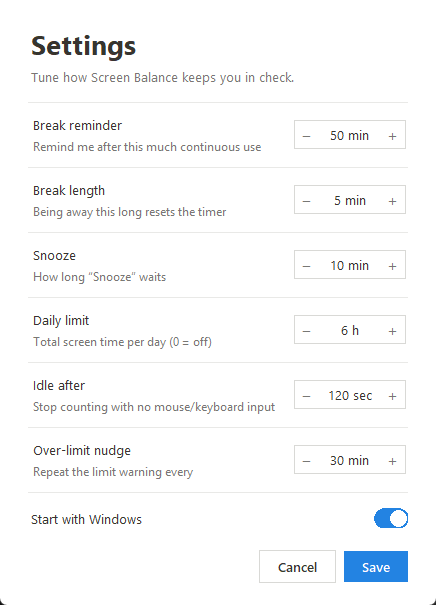
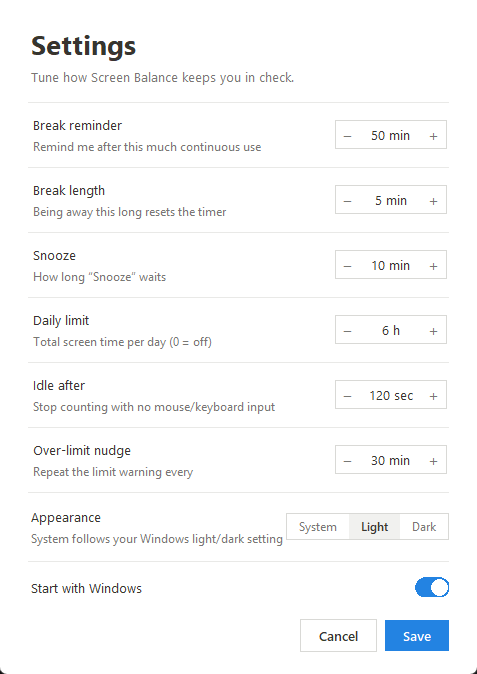
Add dark mode (System / Light / Dark)
- Notion dark palette for the dashboard, popups, break screen, settings
  window and title bars; tags and chart colors have dark variants
- New Appearance setting; "System" (default) follows the Windows
  light/dark app mode and switches live when it changes
- README images switch with the viewer's GitHub theme

diff --git a/screen_balance.py b/screen_balance.py
@@ -46,7 +46,9 @@ DEFAULT_CONFIG = {
     "daily_limit_hours": 6.0,
     "idle_threshold_sec": 120,  # no input for this long = not counting time
     "over_limit_repeat_min": 30,
+    "theme": "system",          # "system" (follow Windows), "light" or "dark"
 }
+THEMES = ("system", "light", "dark")
 
 TICK_MS = 1000  # 1 s so the "Break in" countdown ticks smoothly
 SAVE_EVERY_SEC = 60
@@ -117,13 +119,24 @@ def log_error(msg: str) -> None:
         pass
 
 
+def windows_uses_dark_mode() -> bool:
+    """True when Windows' app mode is set to Dark (Settings > Personalization > Colors)."""
+    import winreg
+    try:
+        with winreg.OpenKey(winreg.HKEY_CURRENT_USER,
+                            r"Software\Microsoft\Windows\CurrentVersion\Themes\Personalize") as k:
+            return winreg.QueryValueEx(k, "AppsUseLightTheme")[0] == 0
+    except OSError:
+        return False
+
+
 def style_titlebar(win):
-    """Windows 11 light title bar matching the app's white pages."""
+    """Windows 11 title bar matching the current page color (light or dark)."""
     try:
         win.update_idletasks()
         hwnd = user32.GetParent(win.winfo_id())
-        off = ctypes.c_int(0)
-        ctypes.windll.dwmapi.DwmSetWindowAttribute(hwnd, 20, ctypes.byref(off), 4)
+        dark = ctypes.c_int(1 if THEME["dark"] else 0)
+        ctypes.windll.dwmapi.DwmSetWindowAttribute(hwnd, 20, ctypes.byref(dark), 4)
         r, g, b = THEME["bg"]
         color = ctypes.c_int(r | (g << 8) | (b << 16))
         ctypes.windll.dwmapi.DwmSetWindowAttribute(hwnd, 35, ctypes.byref(color), 4)
@@ -213,6 +226,8 @@ def clean_config(raw: dict) -> dict:
             continue
         v = max(lo, min(hi, v))
         cfg[key] = v if is_float else int(v)
+    if raw.get("theme") in THEMES:
+        cfg["theme"] = raw["theme"]
     return cfg
 
 
@@ -300,6 +315,8 @@ class ScreenBalance:
         self._stats_win = None
         self._settings_win = None
         self._tray_key = None
+        self._theme_checked = 0.0
+        self.apply_theme()
 
         self.cmd_q = queue.Queue()
 
@@ -309,6 +326,25 @@ class ScreenBalance:
         self.scale = self.root.winfo_fpixels("1i") / 96.0
 
         self.icon = pystray.Icon(APP_NAME, design.render_tray(0), APP_NAME, self._build_menu())
+
+    # ---------------- theme ----------------
+    def _wants_dark(self) -> bool:
+        mode = self.config.get("theme", "system")
+        return windows_uses_dark_mode() if mode == "system" else mode == "dark"
+
+    def apply_theme(self) -> bool:
+        """Switch the palette if needed. Returns True when it changed."""
+        dark = self._wants_dark()
+        if THEME.get("dark") == dark:
+            return False
+        design.set_theme(dark)
+        win = getattr(self, "_stats_win", None)
+        if win is not None and win.winfo_exists():
+            win.configure(bg=hexc(THEME["bg"]))
+            self._stats_label.configure(bg=hexc(THEME["bg"]))
+            style_titlebar(win)
+            self._refresh_stats()
+        return True
 
     # ---------------- data ----------------
     def _prune_usage(self):
@@ -427,6 +463,11 @@ class ScreenBalance:
         elapsed = gap if gap <= 30 else 0  # a big gap means sleep/hibernate, not screen time
         self._last_tick, self._last_wall = now, wall
 
+        # follow Windows switching between light and dark (checked every few seconds)
+        if self.config.get("theme") == "system" and now - self._theme_checked >= 3:
+            self._theme_checked = now
+            self.apply_theme()
+
         if today_key() != self._last_day:   # midnight: drop old history, keep running
             self._last_day = today_key()
             self._prune_usage()
@@ -531,7 +572,7 @@ class ScreenBalance:
         self._popup = win
         win.overrideredirect(True)
         win.attributes("-topmost", True)
-        key = hexc(design.POPUP_KEY)
+        key = hexc(design.popup_key())
         win.configure(bg=key)
         win.attributes("-transparentcolor", key)
         win.attributes("-alpha", 0.0)
@@ -897,6 +938,33 @@ class ScreenBalance:
                 else:
                     b.pack(side="left")
 
+        # appearance: System / Light / Dark
+        theme = {"mode": self.config.get("theme", "system")}
+        look_row = tk.Frame(outer, bg=bg, pady=12)
+        look_row.pack(fill="x")
+        look_text = tk.Frame(look_row, bg=bg)
+        look_text.pack(side="left")
+        tk.Label(look_text, text="Appearance", bg=bg, fg=hexc(T["text"]), font=("Segoe UI", 10)).pack(anchor="w")
+        tk.Label(look_text, text="System follows your Windows light/dark setting", bg=bg, fg=hexc(T["muted"]),
+                 font=("Segoe UI", 9)).pack(anchor="w")
+        seg = tk.Frame(look_row, bg=bg, highlightthickness=1, highlightbackground=hexc(T["border_hi"]))
+        seg.pack(side="right")
+        seg_btns = {}
+
+        def draw_seg():
+            for mode, lbl in seg_btns.items():
+                on = mode == theme["mode"]
+                lbl.config(bg=hexc(T["card_hi"]) if on else bg, fg=hexc(T["text"] if on else T["muted"]),
+                           font=("Segoe UI Semibold" if on else "Segoe UI", 9))
+
+        for mode in THEMES:
+            lbl = tk.Label(seg, text=mode.capitalize(), bg=bg, cursor="hand2", padx=10, pady=3)
+            lbl.pack(side="left")
+            lbl.bind("<Button-1>", lambda e, m=mode: (theme.update(mode=m), draw_seg()))
+            seg_btns[mode] = lbl
+        draw_seg()
+        tk.Frame(outer, bg=hexc(T["border"]), height=1).pack(fill="x")
+
         # autostart toggle
         auto_row = tk.Frame(outer, bg=bg, pady=14)
         auto_row.pack(fill="x")
@@ -927,7 +995,9 @@ class ScreenBalance:
             for key, *_ in fields:
                 v = values[key]
                 self.config[key] = v if key == "daily_limit_hours" else int(v)
+            self.config["theme"] = theme["mode"]
             save_json(CONFIG_PATH, self.config)
+            self.apply_theme()
             if self.config["break_interval_min"] != old_interval:
                 # new interval applies to the current session; if already past it, remind in a minute
                 self.next_break_at = max(self.config["break_interval_min"] * 60, self.session_sec + 60)

diff --git a/design.py b/design.py
@@ -11,8 +11,9 @@ import os
 
 from PIL import Image, ImageDraw, ImageFont
 
-# Notion-like palette
-THEME = {
+# Notion-like palettes
+LIGHT = {
+    "dark": False,
     "bg": (255, 255, 255),        # page
     "card": (247, 247, 245),      # sidebar / soft panel
     "card_hi": (241, 241, 239),   # callout, hover, stepper
@@ -27,10 +28,35 @@ THEME = {
     "good": (68, 131, 97),
     "warn": (217, 115, 13),
     "danger": (212, 76, 71),
+    "bar_other": (215, 214, 211),  # past days in charts
+    "bar_over": (235, 160, 156),   # past days over the limit
+    "bar_hour": (182, 206, 232),   # hourly bars
+    "key": (250, 251, 252),        # transparent color key for popups (never drawn)
+}
+DARK = {
+    "dark": True,
+    "bg": (25, 25, 25),
+    "card": (32, 32, 32),
+    "card_hi": (40, 40, 40),
+    "track": (47, 47, 47),
+    "border": (47, 47, 47),
+    "border_hi": (64, 64, 64),
+    "text": (213, 213, 211),
+    "muted": (155, 155, 152),
+    "dim": (110, 110, 108),
+    "a1": (35, 131, 226),
+    "a1_hover": (56, 146, 235),
+    "good": (82, 158, 114),
+    "warn": (219, 132, 62),
+    "danger": (223, 84, 82),
+    "bar_other": (72, 72, 72),
+    "bar_over": (122, 62, 58),
+    "bar_hour": (42, 82, 128),
+    "key": (24, 26, 28),
 }
 
 # (background, text) pairs, like Notion's select tags
-TAGS = {
+LIGHT_TAGS = {
     "gray": ((241, 241, 239), (120, 119, 116)),
     "blue": ((231, 243, 248), (51, 126, 169)),
     "green": ((237, 243, 236), (68, 131, 97)),
@@ -40,8 +66,32 @@ TAGS = {
     "purple": ((246, 243, 249), (144, 101, 176)),
     "pink": ((250, 241, 245), (193, 76, 138)),
 }
+DARK_TAGS = {
+    "gray": ((55, 55, 55), (175, 175, 172)),
+    "blue": ((31, 57, 88), (92, 164, 214)),
+    "green": ((36, 66, 49), (96, 172, 128)),
+    "orange": ((92, 55, 27), (222, 144, 86)),
+    "yellow": ((86, 66, 30), (214, 168, 84)),
+    "red": ((92, 42, 40), (232, 110, 106)),
+    "purple": ((60, 42, 82), (168, 128, 222)),
+    "pink": ((82, 38, 62), (226, 100, 168)),
+}
 APP_TAGS = ["blue", "purple", "green", "orange", "pink", "yellow"]
-POPUP_KEY = (250, 251, 252)  # transparent color key for borderless popups (never used in drawings)
+
+# the live palette; set_theme() swaps its contents in place so every module sees the change
+THEME = dict(LIGHT)
+TAGS = dict(LIGHT_TAGS)
+
+
+def set_theme(dark: bool) -> None:
+    THEME.clear()
+    THEME.update(DARK if dark else LIGHT)
+    TAGS.clear()
+    TAGS.update(DARK_TAGS if dark else LIGHT_TAGS)
+
+
+def popup_key():
+    return THEME["key"]
 
 _FONT_FILES = {
     "regular": ["segoeui.ttf"],
@@ -361,9 +411,9 @@ def _overview(p, data, hover, hits):
         if v > 0:
             h = max(3, (base - top_y) * v / peak)
             if limit and v > limit:
-                col = T["danger"] if d["today"] else (235, 160, 156)
+                col = T["danger"] if d["today"] else T["bar_over"]
             else:
-                col = T["a1"] if d["today"] else (215, 214, 211)
+                col = T["a1"] if d["today"] else T["bar_other"]
             p.rrect((cx - 12, base - h, cx + 12, base - 1), 3, fill=col)
         p.text((cx, base + 15), d["label"], 12, T["text"] if d["today"] else T["muted"],
                "semibold" if d["today"] else "regular", "mm")
@@ -407,7 +457,7 @@ def _analytics(p, data):
         cx = L + colw * (h + 0.5)
         if v > 0:
             bh = max(2, (base - top_y) * v / peak)
-            col = T["a1"] if h == cur else (182, 206, 232)
+            col = T["a1"] if h == cur else T["bar_hour"]
             p.rrect((cx - colw * 0.32, base - bh, cx + colw * 0.32, base - 1), 2, fill=col)
         if h % 6 == 0:
             p.text((cx, base + 14), ("12a", "6a", "12p", "6p")[h // 6], 11, T["muted"], anchor="mm")
@@ -462,7 +512,7 @@ _POPUP_ICONS = {"break": "☕", "warn": "⚠", "limit": "⏰"}
 def render_popup(kind, title, message, buttons, hover, out_scale):
     """buttons: list of (id, label, primary). Returns (image, hits) with hits in output pixels."""
     T = THEME
-    p = Painter(POPUP_W, 400, out_scale * 2, POPUP_KEY)
+    p = Painter(POPUP_W, 400, out_scale * 2, T["key"])
     lines = p.wrap(message, 12.5, POPUP_W - 56 - 22)
     msg_top = 56
     btn_y0 = msg_top + len(lines) * 19 + 12
@@ -494,7 +544,7 @@ def render_popup(kind, title, message, buttons, hover, out_scale):
 
     img = p.img.crop((0, 0, round(POPUP_W * p.S), round(H * p.S)))
     out = img.resize((round(POPUP_W * out_scale), round(H * out_scale)), Image.LANCZOS)
-    flat = Image.new("RGB", out.size, POPUP_KEY)
+    flat = Image.new("RGB", out.size, T["key"])
     flat.paste(out, (0, 0), out)
     hits = [(bid, tuple(v * out_scale for v in box)) for bid, box in hits]
     return flat, hits

diff --git a/tools/make_screenshots.py b/tools/make_screenshots.py
@@ -39,19 +39,22 @@ DEMO = dict(
 def save_popup(name, img):
     # popups are flattened onto a color key for transparency; turn that into real alpha
     rgb = img.convert("RGB")
-    diff = ImageChops.difference(rgb, Image.new("RGB", rgb.size, design.POPUP_KEY))
+    diff = ImageChops.difference(rgb, Image.new("RGB", rgb.size, design.popup_key()))
     alpha = diff.convert("L").point(lambda v: 255 if v else 0)
     rgba = rgb.convert("RGBA")
     rgba.putalpha(alpha)
     rgba.save(os.path.join(OUT, name))
 
 
-def settings_shot():
+def settings_shot(theme, name):
+    import json
     import screen_balance as sb
     tmp = tempfile.mkdtemp()
     sb.DATA_DIR = tmp
     sb.CONFIG_PATH = os.path.join(tmp, "config.json")
     sb.USAGE_PATH = os.path.join(tmp, "usage.json")
+    with open(sb.CONFIG_PATH, "w") as f:
+        json.dump({"theme": theme}, f)
     app = sb.ScreenBalance()
     sb.autostart_enabled = lambda: True  # show the toggle switched on
     app._cmd_settings()
@@ -61,12 +64,13 @@ def settings_shot():
     win.update()
     x, y = win.winfo_rootx(), win.winfo_rooty()
     ImageGrab.grab((x, y, x + win.winfo_width(), y + win.winfo_height()), all_screens=True) \
-        .save(os.path.join(OUT, "settings.png"))
+        .save(os.path.join(OUT, name))
     app.root.destroy()
 
 
 def main():
     os.makedirs(OUT, exist_ok=True)
+    design.set_theme(False)
     design.render_dashboard(DEMO, SCALE, tab="overview")[0].save(os.path.join(OUT, "dashboard.png"))
     design.render_dashboard(DEMO, SCALE, tab="analytics")[0].save(os.path.join(OUT, "analytics.png"))
     img, _ = design.render_break(0, 300, "Your eyes, back and mind will thank you.", True, None, SCALE,
@@ -92,7 +96,16 @@ def main():
         strip.paste(ic, (i * 88, 0), ic)
     strip.save(os.path.join(OUT, "tray-icons.png"))
 
-    settings_shot()
+    # dark versions (the README shows them to people using GitHub's dark theme)
+    design.set_theme(True)
+    design.render_dashboard(DEMO, SCALE, tab="overview")[0].save(os.path.join(OUT, "dashboard-dark.png"))
+    design.render_dashboard(DEMO, SCALE, tab="analytics")[0].save(os.path.join(OUT, "analytics-dark.png"))
+    img, _ = design.render_break(187, 300, design.BREAK_TIPS[1], False, None, SCALE)
+    img.save(os.path.join(OUT, "break-timer-dark.png"))
+    design.set_theme(False)
+
+    settings_shot("light", "settings.png")
+    settings_shot("dark", "settings-dark.png")
     print("Saved images to", OUT)
 
 

diff --git a/README.md b/README.md
@@ -11,7 +11,10 @@ It reminds you to take breaks, keeps an eye on your daily screen time, and shows
 ![License: MIT](https://img.shields.io/badge/License-MIT-37352F)
 ![100% offline](https://img.shields.io/badge/Data-100%25%20offline-448361)
 
-<img src="docs/dashboard.png" alt="Screen Balance dashboard in a Notion-like style: status, break countdown, breaks today, today's screen time, top apps and the last 7 days" width="780">
+<picture>
+  <source media="(prefers-color-scheme: dark)" srcset="docs/dashboard-dark.png">
+  <img src="docs/dashboard.png" alt="Screen Balance dashboard in a Notion-like style: status, break countdown, breaks today, today's screen time, top apps and the last 7 days" width="780">
+</picture>
 
 </div>
 
@@ -38,7 +41,10 @@ Need to get back urgently? **End break early** is always there. Ending early cou
 **Trigger a break whenever you want:** click **☕ Take a break now** on the dashboard, or choose it from the tray menu.
 
 <p>
-<img src="docs/break-timer.png" alt="Full-screen break timer with a countdown and a progress bar" width="380">
+<picture>
+  <source media="(prefers-color-scheme: dark)" srcset="docs/break-timer-dark.png">
+  <img src="docs/break-timer.png" alt="Full-screen break timer with a countdown and a progress bar" width="380">
+</picture>
 <img src="docs/break-done.png" alt="Break complete screen: your 3rd break today" width="380">
 </p>
 
@@ -68,7 +74,10 @@ Switch to the **Analytics** tab for the detail:
 - **Activity by hour**: when in the day you use your PC, with your busiest hour
 - **Last 7 days table**: screen time, number of breaks and break time for each day
 
-<img src="docs/analytics.png" alt="Analytics tab: stat cards, activity by hour, and a 7-day table with breaks and break time" width="780">
+<picture>
+  <source media="(prefers-color-scheme: dark)" srcset="docs/analytics-dark.png">
+  <img src="docs/analytics.png" alt="Analytics tab: stat cards, activity by hour, and a 7-day table with breaks and break time" width="780">
+</picture>
 
 Breaks are counted whether you finish the break timer, step away for 5+ minutes, or put the PC to sleep.
 
@@ -79,13 +88,19 @@ The icon is a small progress ring that fills with your day: blue while you're on
 
 <sub>On track · close to the limit · over the limit · reminders paused</sub>
 
+### Light and dark mode
+Choose **System**, **Light** or **Dark** under *Appearance* in Settings. **System** (the default) follows your Windows light/dark setting and switches automatically when you change it. The dashboard, popups, break screen, settings and even the window title bars follow along. The images in this README match your GitHub theme too.
+
 ### Only *real* use counts
 Time only counts while you're actually using the PC. Counting stops after 2 minutes without mouse or keyboard input, while the screen is locked, and while the PC sleeps.
 
 ### Settings
 Everything is adjustable, including whether it starts with Windows.
 
-<img src="docs/settings.png" alt="Settings window" width="400">
+<picture>
+  <source media="(prefers-color-scheme: dark)" srcset="docs/settings-dark.png">
+  <img src="docs/settings.png" alt="Settings window" width="400">
+</picture>
 
 | Setting | Default | Range |
 |---|---|---|
@@ -95,6 +110,7 @@ Everything is adjustable, including whether it starts with Windows.
 | Daily limit (0 = off) | 6 h | 0–24 h |
 | Stop counting after no input for | 120 sec | 30–1800 sec |
 | Repeat the over-limit warning every | 30 min | 5–240 min |
+| Appearance | System | System, Light, Dark |
 
 ## Privacy
 
